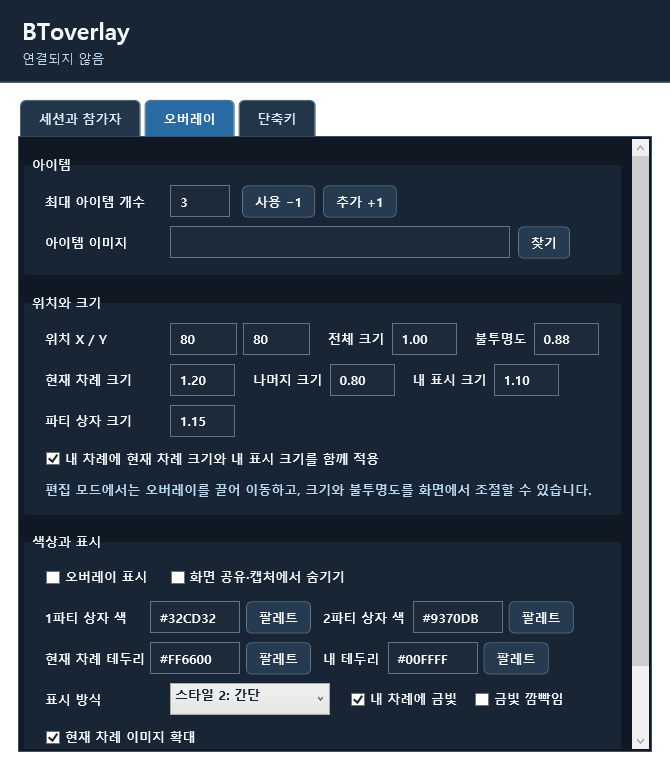
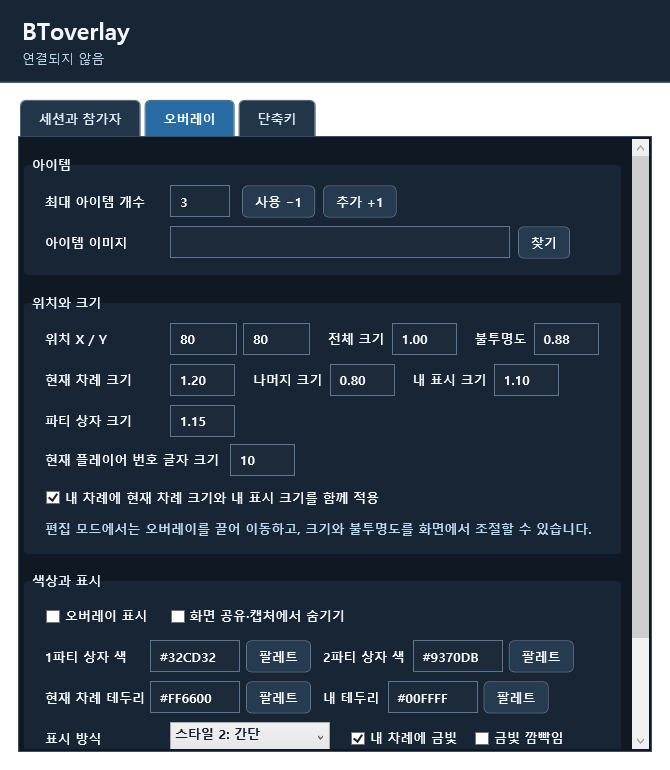
v0.3.3: 차례 건너뛰기와 현재 번호 글자 크기 설정

diff --git a/MainWindow.xaml b/MainWindow.xaml
@@ -227,6 +227,10 @@
                   <TextBlock Text="파티 상자 크기" Width="125" VerticalAlignment="Center"/>
                   <TextBox x:Name="TeamBoxSizeBox" Width="65" AutomationProperties.Name="파티 상자 크기"/>
                 </WrapPanel>
+                <WrapPanel Margin="0,0,0,7">
+                  <TextBlock Text="현재 플레이어 번호 글자 크기" Width="185" VerticalAlignment="Center"/>
+                  <TextBox x:Name="CurrentNumberFontSizeBox" Width="65" AutomationProperties.Name="현재 플레이어 번호 글자 크기" ToolTip="스타일 2의 1-4 번호 글자 크기 (6~40)"/>
+                </WrapPanel>
                 <CheckBox x:Name="CombineMySizeBox" Content="내 차례에 현재 차례 크기와 내 표시 크기를 함께 적용" Margin="0,0,0,7"/>
                 <TextBlock Text="편집 모드에서는 오버레이를 끌어 이동하고, 크기와 불투명도를 화면에서 조절할 수 있습니다."
                            Foreground="#B9D6F0" TextWrapping="Wrap"/>

diff --git a/MainWindow.xaml.cs b/MainWindow.xaml.cs
@@ -224,6 +224,8 @@ public partial class MainWindow : Window
                 !double.TryParse(ScaleBox.Text, out var scale) || scale is < .4 or > 3 ||
                 !double.TryParse(OpacityBox.Text, out var opacity) || opacity is < .1 or > 1)
                 throw new InvalidOperationException("위치 X/Y, 크기(0.4~3), 불투명도(0.1~1)를 올바르게 입력하세요.");
+            if (!double.TryParse(CurrentNumberFontSizeBox.Text, out var currentNumberFontSize) || currentNumberFontSize is < 6 or > 40)
+                throw new InvalidOperationException("현재 플레이어 번호 글자 크기는 6~40 사이로 입력하세요.");
             if (!double.TryParse(CurrentSizeBox.Text, out var currentSize) || currentSize is < .5 or > 2.5 ||
                 !double.TryParse(OtherSizeBox.Text, out var otherSize) || otherSize is < .5 or > 2.5 ||
                 !double.TryParse(MySizeBox.Text, out var mySize) || mySize is < .5 or > 2.5 ||
@@ -255,6 +257,7 @@ public partial class MainWindow : Window
             _settings.OverlayX = x; _settings.OverlayY = y; _settings.OverlayScale = scale; _settings.OverlayOpacity = opacity;
             _settings.CurrentSize = currentSize; _settings.OtherSize = otherSize;
             _settings.MySize = mySize; _settings.TeamBoxSize = teamBoxSize;
+            _settings.CurrentNumberFontSize = currentNumberFontSize;
             _settings.CombineMySize = CombineMySizeBox.IsChecked == true;
             _settings.ShowOverlay = ShowBox.IsChecked == true; _settings.HideFromCapture = CaptureBox.IsChecked == true;
             _settings.Party1Color = Party1ColorBox.Text; _settings.Party2Color = Party2ColorBox.Text;
@@ -304,6 +307,7 @@ public partial class MainWindow : Window
         OtherSizeBox.Text = _settings.OtherSize.ToString("0.00");
         MySizeBox.Text = _settings.MySize.ToString("0.00");
         TeamBoxSizeBox.Text = _settings.TeamBoxSize.ToString("0.00");
+        CurrentNumberFontSizeBox.Text = _settings.CurrentNumberFontSize.ToString("0");
         ScaleBox.Text = _settings.OverlayScale.ToString("0.00");
         OpacityBox.Text = _settings.OverlayOpacity.ToString("0.00");
         XBox.Text = _settings.OverlayX.ToString("0");

diff --git a/Checks/Program.cs b/Checks/Program.cs
@@ -111,10 +111,26 @@ try
     board.Included[2] = false;
     board.Order = [0, 2, 3, 1, 4, 5, 6, 7];
     board.ResetTurn();
-    Check(board.Turn == 0, "turn resets to first displayed slot");
+    Check(board.Turn == 3, "turn reset skips empty and excluded players in host order");
     board.SetCount(0, 2);
     board.SetCount(0, 0);
-    Check(board.Turn == 3, "turn skips excluded slot in host order");
+    Check(board.Turn == 3, "non-current count changes do not move the turn");
+
+    var skipEmpty = new Board { Turn = 1 };
+    skipEmpty.Counts[1] = 1; skipEmpty.Counts[2] = 0; skipEmpty.Counts[3] = 0; skipEmpty.Counts[4] = 1;
+    skipEmpty.SetCount(1, 0);
+    Check(skipEmpty.Turn == 4, "last item skips consecutive empty players");
+
+    var wrapEmpty = new Board { Turn = 6 };
+    wrapEmpty.Counts[6] = 1; wrapEmpty.Counts[7] = 0; wrapEmpty.Counts[0] = 3;
+    wrapEmpty.SetCount(6, 0);
+    Check(wrapEmpty.Turn == 0, "last position wraps and skips empty player eight");
+
+    var skipHiddenAndEmpty = new Board { Turn = 1 };
+    skipHiddenAndEmpty.Counts[1] = 1; skipHiddenAndEmpty.Included[2] = false;
+    skipHiddenAndEmpty.Counts[3] = 0; skipHiddenAndEmpty.Counts[4] = 1;
+    skipHiddenAndEmpty.SetCount(1, 0);
+    Check(skipHiddenAndEmpty.Turn == 4, "last item skips hidden and empty players");
 
     var probe = new TcpListener(IPAddress.Loopback, 0);
     probe.Start(); var port = ((IPEndPoint)probe.LocalEndpoint).Port; probe.Stop();

diff --git a/State.cs b/State.cs
@@ -18,6 +18,7 @@ public sealed class UserSettings
     public double OtherSize { get; set; } = 1;
     public double MySize { get; set; } = 1;
     public double TeamBoxSize { get; set; } = 1;
+    public double CurrentNumberFontSize { get; set; } = 10;
     public bool CombineMySize { get; set; }
     public string Party1Color { get; set; } = "#32CD32";
     public string Party2Color { get; set; } = "#9370DB";
@@ -92,7 +93,7 @@ public sealed class Board
         for (var step = 0; step < 8; step++)
         {
             var candidate = Order[(startIndex + step) % 8];
-            if (Included[candidate]) { Turn = candidate; break; }
+            if (CanTakeTurn(candidate)) { Turn = candidate; break; }
         }
         Refresh();
     }
@@ -107,10 +108,11 @@ public sealed class Board
             for (int step = 1; step <= 8; step++)
             {
                 var next = Order[(index + step) % 8];
-                if (Included[next]) { Turn = next; break; }
+                if (CanTakeTurn(next)) { Turn = next; break; }
             }
         }
         Refresh();
         return true;
     }
+    bool CanTakeTurn(int slot) => Included[slot] && Counts[slot] > 0;
 }

diff --git a/OverlayWindow.xaml.cs b/OverlayWindow.xaml.cs
@@ -177,7 +177,7 @@ public partial class OverlayWindow : Window
         var currentPosition = Array.IndexOf(_board.Order, currentSlot);
         var current = new StackPanel { Margin = new Thickness(2, 3, 12, 3), VerticalAlignment = VerticalAlignment.Center };
         current.Children.Add(CreateIconTile(currentSlot, (int)Math.Round((_settings.EnlargeCurrentImage ? 70 : 56) * TileMultiplier(currentSlot))));
-        current.Children.Add(new TextBlock { Text = $"{currentPosition / 4 + 1}-{currentPosition % 4 + 1}", Foreground = Brushes.White, FontSize = 10, FontWeight = FontWeights.Bold,
+        current.Children.Add(new TextBlock { Text = $"{currentPosition / 4 + 1}-{currentPosition % 4 + 1}", Foreground = Brushes.White, FontSize = Math.Clamp(_settings.CurrentNumberFontSize, 6, 40), FontWeight = FontWeights.Bold,
             TextAlignment = TextAlignment.Center });
         PartiesPanel.Children.Add(current);
         var groups = new StackPanel();

diff --git a/README.md b/README.md
@@ -2,7 +2,7 @@
 
 8인 그룹의 아이템 잔여 개수와 사용 차례를 함께 보는 Windows 오버레이입니다. 호스트 1명과 참가자 최대 7명이 직접 연결합니다. 세션과 설정은 각 사용자에게 별도로 관리됩니다.
 
-현재 버전: **v0.3.1**
+현재 버전: **v0.3.3**
 
 ## 화면 미리보기
 
@@ -66,13 +66,13 @@ dotnet run --project Checks/BToverlay.Checks.csproj
 
 호스트가 정한 표시 순서는 호스트와 모든 참가자에게 동일하게 적용됩니다. 표시 순서 1~4는 1파티, 5~8은 2파티입니다. **스타일 1**은 각 참가자의 아이템 아이콘과 개수를 가로로 보여 줍니다. **스타일 2**는 왼쪽에 현재 차례 참가자의 아이콘·잔여 개수·파티 내 순번(예: `1-4`)을 크게 보여 주고, 오른쪽에 8명의 상태 칸을 배치합니다. 어두운 상태 칸은 잔여 개수 0, 현재 차례의 테두리는 선택한 현재 차례 색을 뜻합니다.
 
-각 사용자는 파티 상자 두 개의 색, 현재 차례 테두리 색, 내 테두리 색, 위치, 크기, 불투명도, 아이템 이미지, 금빛 효과와 깜빡임, 화면 공유·캡처에서 숨기기를 자신의 앱에서 따로 설정합니다. 색상은 `#32CD32` 같은 값으로 입력합니다. 현재 차례의 아이콘(스타일 2에서는 상태 칸) 확대는 기본으로 켜져 있으며 끌 수 있습니다. 이미지 파일은 각자의 `Data/items/`에 복사되고 다른 참가자에게 전송되지 않습니다.
+각 사용자는 파티 상자 두 개의 색, 현재 차례 테두리 색, 내 테두리 색, 위치, 크기, 불투명도, 아이템 이미지, 금빛 효과와 깜빡임, 화면 공유·캡처에서 숨기기를 자신의 앱에서 따로 설정합니다. 스타일 2 왼쪽에 표시되는 현재 플레이어 번호(예: `1-4`)의 글자 크기도 오버레이 설정에서 조절할 수 있습니다. 색상은 `#32CD32` 같은 값으로 입력합니다. 현재 차례의 아이콘(스타일 2에서는 상태 칸) 확대는 기본으로 켜져 있으며 끌 수 있습니다. 이미지 파일은 각자의 `Data/items/`에 복사되고 다른 참가자에게 전송되지 않습니다.
 
 색상 코드 옆 **팔레트** 버튼으로 미리 정한 색을 고르거나 원하는 색상 코드를 입력할 수 있습니다. 색을 선택하면 즉시 오버레이에 적용되고 저장됩니다.
 
 **편집 모드** 버튼이나 단축키(기본 `Ctrl+Alt+F6`)로 오버레이를 직접 조절할 수 있습니다. 오버레이를 끌어서 이동하고 오른쪽 아래 손잡이로 전체 크기를 바꿉니다. 편집 막대에서 전체·현재 차례·나머지·내 표시·파티 상자의 크기를 각각 조절하고 불투명도 슬라이더를 사용할 수 있습니다. 기본값은 내 차례에 현재 차례 크기를 적용합니다. **함께 적용** 옵션을 켜면 현재 차례 크기와 내 표시 크기를 곱해서 적용합니다. 편집 모드가 끝나면 설정이 저장됩니다.
 
-현재 차례인 사람이 아이템 개수를 0으로 만들면 호스트가 정한 표시 순서에서 다음으로 표시되는 사람에게 차례가 넘어갑니다. 자신의 차례가 아니어도 **사용 −1** 단축키로 개수를 줄일 수 있습니다. 이때 모든 참가자의 오버레이에 해당 사람의 작은 금색 표시가 5초 동안 나타나고, 현재 차례는 바뀌지 않습니다. **추가 +1**도 모든 참가자에게 공유됩니다. 개수는 0~10 범위에서만 바뀝니다.
+현재 차례인 사람이 아이템 개수를 0으로 만들면 호스트가 정한 표시 순서에서 아이템이 남아 있고 표시 중인 다음 사람에게 차례가 넘어갑니다. 아이템이 0개이거나 표시에서 제외된 사람은 건너뜁니다. 자신의 차례가 아니어도 **사용 −1** 단축키로 개수를 줄일 수 있습니다. 이때 모든 참가자의 오버레이에 해당 사람의 작은 금색 표시가 5초 동안 나타나고, 현재 차례는 바뀌지 않습니다. **추가 +1**도 모든 참가자에게 공유됩니다. 개수는 0~10 범위에서만 바뀝니다.
 
 **아이템 개수 초기화**는 각자가 자신의 앱에서 정한 최대 개수(기본 3)로 되돌리되 차례는 유지합니다. **차례 초기화**는 아이템 개수를 건드리지 않고 호스트가 지정한 시작 위치로 돌아갑니다. 세션 초기화는 호스트만 할 수 있습니다.
 
